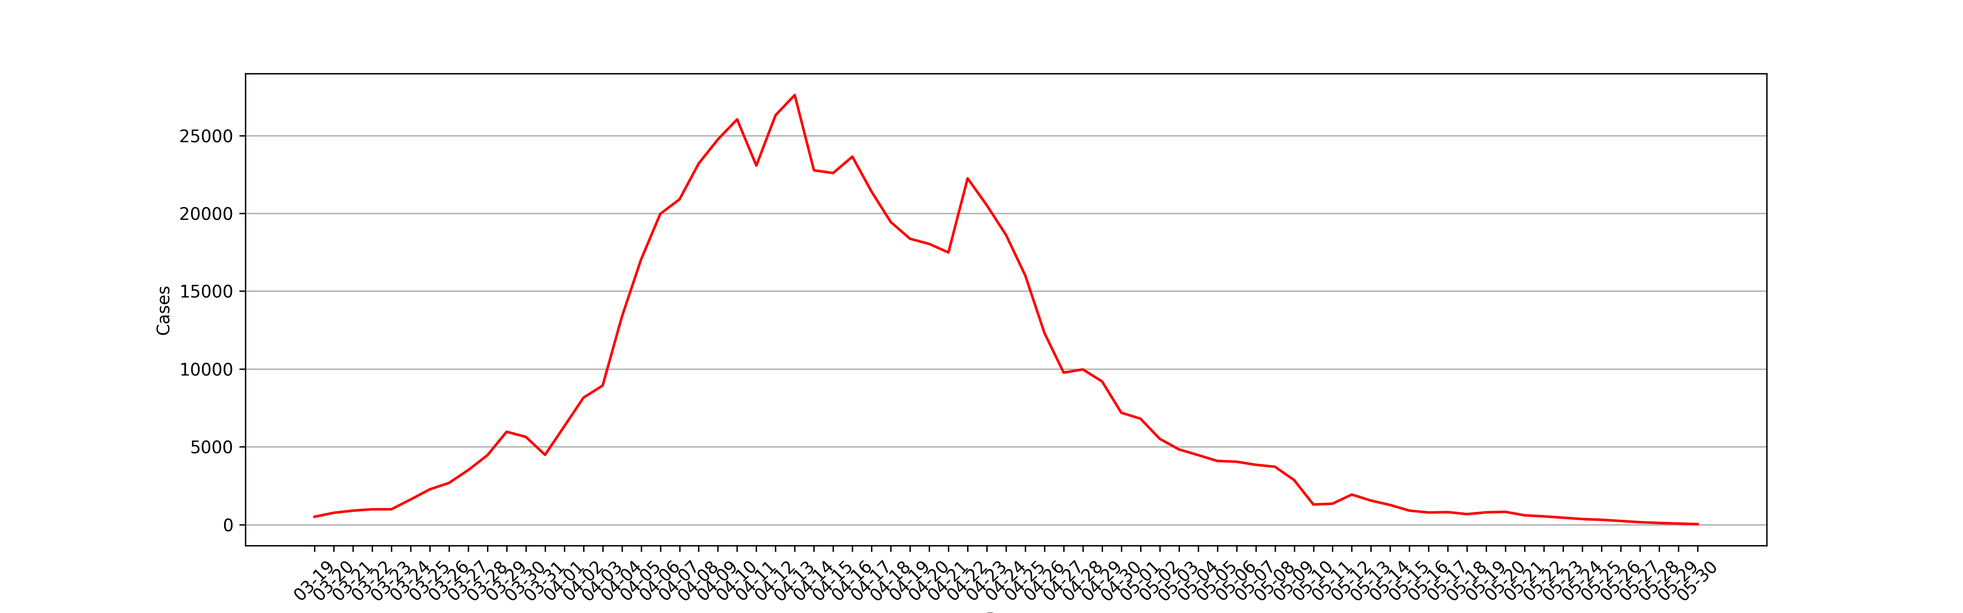
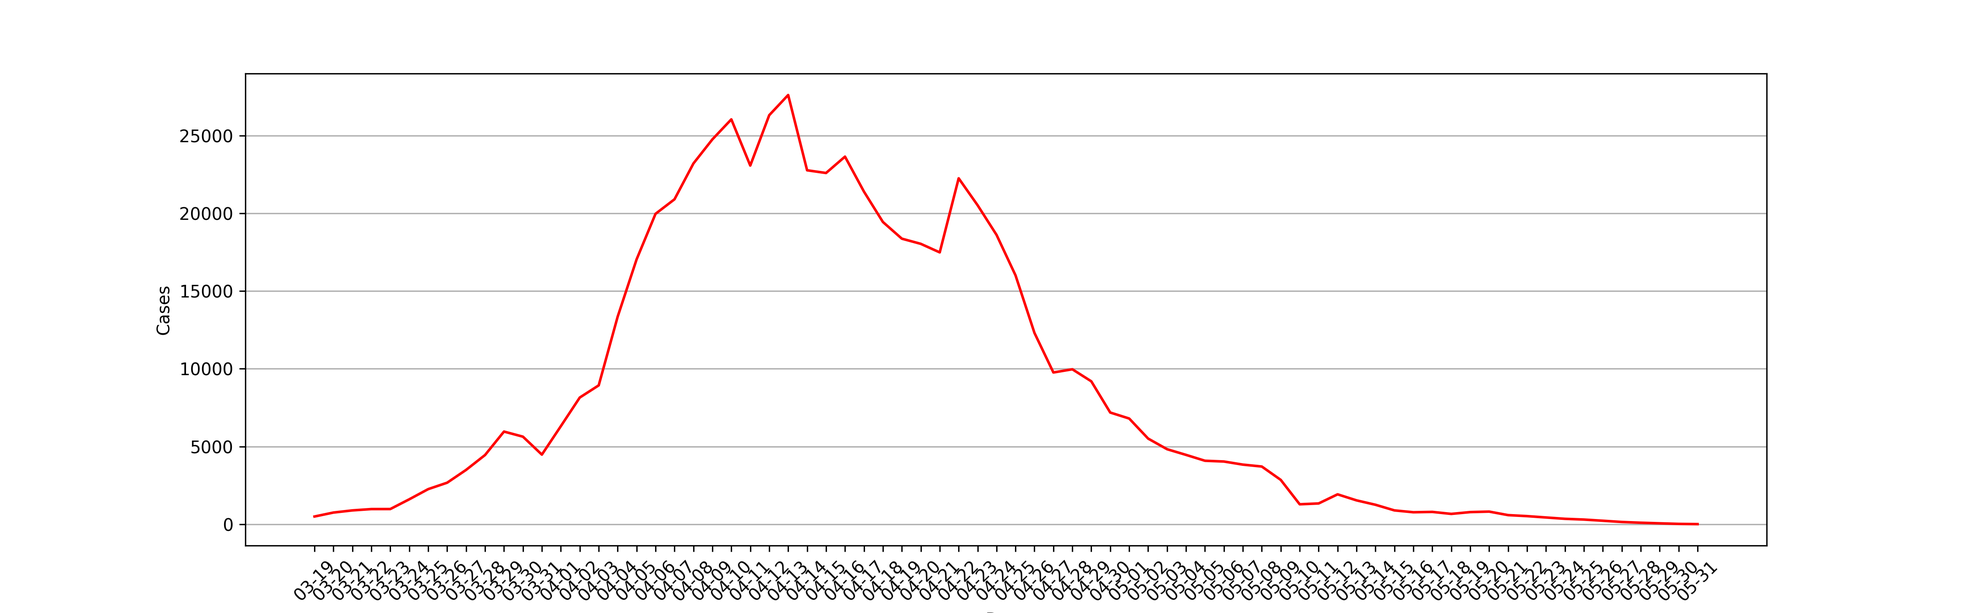
Commit by github action

diff --git a/archived_html/f19f27502d6bc9c7f870bcb3899bd7a8.html b/archived_html/f19f27502d6bc9c7f870bcb3899bd7a8.html
@@ -1,0 +1,151 @@
+<!DOCTYPE html>
+<html lang="zh-Hans">
+<head>
+    <meta charset="utf-8">
+    <meta http-equiv="Content-Security-Policy" content="upgrade-insecure-requests">
+    <meta name="viewport" content="width=device-width, initial-scale=1, maximum-scale=1, user-scalable=no">
+    <meta http-equiv="X-UA-Compatible" content="IE=Edge,chrome=1">
+    <meta http-equiv="Cache-Control" content="no-siteapp" />
+    <meta name="renderer" content="webkit">
+    <meta name="apple-mobile-web-app-capable" content="yes" />
+    <meta name="apple-mobile-web-app-status-bar-style" content="black" />
+    <title>上海2022年5月31日，新增本土新冠肺炎确诊病例5例 新增本土无症状感染者10例 新增境外输入性新冠肺炎确诊病例1例 新增境外输入性无症状感染者4例__上海市卫生健康委员会</title>
+    <meta name="ColumnDescription" content="新闻发布"><!-- * -->
+    <meta name="ColumnKeywords" content="新闻发布"><!-- * -->
+    <!--<meta name="ColumnType" content=""> * -->
+    <meta name="ColumnName" content="新闻发布"><!-- * -->
+    <meta name="ArticleTitle" content="上海2022年5月31日，新增本土新冠肺炎确诊病例5例 新增本土无症状感染者10例 新增境外输入性新冠肺炎确诊病例1例 新增境外输入性无症状感染者4例"><!-- * -->
+    <meta name="PubDate" content="2022-06-01"><!-- * -->
+    <meta name="ContentSource" content="上海市卫生健康委员会"><!-- * -->
+    <meta name="Author" content="上海市卫生健康委员会">
+    <meta name="Description" content="" />
+    <meta name="applicable-device" content="pc;mobile">
+    <meta name="location" content="北纬N31°11′51.89″ 东经E121°30′5.42″">
+    <!-- min CSS -->
+    <link rel="stylesheet" href="/assets/css/ETUI/ETUI3.min.css">
+    <!-- Custom CSS -->
+    <link rel="stylesheet" href="/assets/plugin/owl/owl.carousel.css">
+    <link rel="stylesheet" href="/assets/css/style.css">
+    <link rel="stylesheet" href="/assets/css/responsive.css">
+    <link rel="stylesheet" href="/assets/css/ETUI/ETUI3.Utility.css">
+    <!-- icons -->
+    <link rel="shortcut icon" href="/assets/img/ico/favicon.png">
+    <!-- 无障碍工具条 -->
+   <!-- <link rel="stylesheet" href="http://www.shanghai.gov.cn/jhelper_V2.0/jhelper_tool_style.css">
+    <script src="http://www.shanghai.gov.cn/jhelper_V2.0/wsj/jhelper_config.js" charset="gb2312"></script>
+    <noscript>不能读取工具条配置</noscript>
+    <script src="http://www.shanghai.gov.cn/jhelper_V2.0/jhelper_2.0.js" charset="gb2312"></script>
+    <noscript>不能读取工具条</noscript> 
+     -->
+    <script type="text/javascript">
+        function onsubmmit(pageIndex){
+            $("#pageIndex").val(1);
+            $("#searchField").val("0");
+            $("#timeScope").val("0");
+            $("#cmsSearchId").val("0");
+            $("#searchForm").submit();
+        }
+        function onselsubmmit(){
+            $("#pageIndex").val(1);
+            $("#searchForm").submit();
+        }
+        function psubmmit(pageIndex){
+            $("#pageIndex").val(pageIndex);
+            $("#searchForm").submit();
+        }
+        // 栏目
+        function chsubmmit(searchChId){
+            $("#pageIndex").val(1);
+            $("#searchField").val("0");
+            $("#timeScope").val("0");
+            $("#cmsSearchId").val(searchChId);
+            $("#searchForm").submit();
+        }
+    </script> 
+    <!-- 无障碍工具条 -->
+</head>
+<body>
+    <div id="accessNull"></div>
+    <div id="container">
+        <div class="channelinfo hidden"></div>
+        <script src="/assets/js/header.js"></script>
+        <div class="main" id="main">
+            <script src="/assets/js/jiansuo.js"></script>
+            <div class="main-container margin-top-15">
+                <div class="container ">
+                    <div class="relitive">
+                        <ol class="breadcrumb">
+                           <span>您现在所在的位置：</span>
+                            <li><a href="/index.html">首页</a></li>
+                            <li class="active">新闻中心</li>
+                           
+                            <li class="active">新闻发布</li>
+                           
+                        </ol>
+                        <div class="date-se">
+                            <i class="iconfont">&#xe60b;</i> <span id="time"></span>
+                        </div>
+                    </div>
+
+                    <div class="Article">
+                        <h2 id="ivs_title" class="Article-title">上海2022年5月31日，新增本土新冠肺炎确诊病例5例 新增本土无症状感染者10例 新增境外输入性新冠肺炎确诊病例1例 新增境外输入性无症状感染者4例</br>
+                         <h2 class="Article-title">
+                            <small id="ivs_date" class="Article-time">( 2022-06-01)</small>
+                        </h2>
+                        <div id="ivs_player" style="text-align:center;"></div>
+                        <div id="ivs_content" class="Article_content">
+                           
+                                 <p style="font-size: medium;white-space: normal;margin-top: 10px;text-indent: 40px"><span style="font-size: 20px;font-family: 仿宋_GB2312">市卫健委今早（6月1日）通报：2022年5月31日0—24时，新增本土新冠肺炎确诊病例5例和无症状感染者10例，其中1例确诊病例为既往无症状感染者转归，4例确诊病例和10例无症状感染者在隔离管控中发现。新增境外输入性新冠肺炎确诊病例1例和无症状感染者4例，均在闭环管控中发现。</span></p><p style="font-size: medium;white-space: normal;margin-top: 10px;text-indent: 40px"><span style="font-size: 20px;font-family: 仿宋_GB2312">2022</span><span style="font-size: 20px;font-family: 仿宋_GB2312">年5月31日0—24时，新增本土新冠肺炎确诊病例5例，含1例由既往无症状感染者转为确诊病例。新增治愈出院101例。</span></p><p style="font-size: medium;white-space: normal;margin-top: 10px;text-indent: 40px"><strong><span style="font-size: 20px;font-family: 黑体">病例1、病例2</span></strong><span style="font-size: 20px;font-family: 仿宋_GB2312">，居住于浦东新区，</span><strong><span style="font-size: 20px;font-family: 黑体">病例3</span></strong><span style="font-size: 20px;font-family: 仿宋_GB2312">，居住于黄浦区，</span><strong><span style="font-size: 20px;font-family: 黑体">病例4</span></strong><span style="font-size: 20px;font-family: 仿宋_GB2312">，居住于虹口区，均为本市闭环隔离管控人员，其间新冠病毒核酸检测结果异常，经疾控中心复核结果为阳性。经市级专家会诊，综合流行病学史、临床症状、实验室检测和影像学检查结果等，诊断为确诊病例。</span></p><p style="font-size: medium;white-space: normal;margin-top: 10px;text-indent: 40px"><strong><span style="font-size: 20px;font-family: 黑体">病例5</span></strong><span style="font-size: 20px;font-family: 仿宋_GB2312">，居住于杨浦区，为此前报告的本土无症状感染者。经市级专家会诊，综合流行病学史、临床症状、实验室检测和影像学检查结果等，诊断为确诊病例。</span></p><p style="font-size: medium;white-space: normal;margin-top: 10px;text-indent: 40px"><span style="font-size: 20px;font-family: 仿宋_GB2312">2022</span><span style="font-size: 20px;font-family: 仿宋_GB2312">年5月31日0—24时，新增本土无症状感染者10例。</span></p><p style="font-size: medium;white-space: normal;margin-top: 10px;text-indent: 40px"><strong><span style="font-size: 20px;font-family: 黑体">无症状感染者1、无症状感染者2</span></strong><span style="font-size: 20px;font-family: 仿宋_GB2312">，居住于浦东新区，</span><strong><span style="font-size: 20px;font-family: 黑体">无症状感染者3、无症状感染者4</span></strong><span style="font-size: 20px;font-family: 仿宋_GB2312">，居住于长宁区，</span><strong><span style="font-size: 20px;font-family: 黑体">无症状感染者5、无症状感染者6</span></strong><span style="font-size: 20px;font-family: 仿宋_GB2312">，居住于静安区，</span><strong><span style="font-size: 20px;font-family: 黑体">无症状感染者7、无症状感染者8</span></strong><span style="font-size: 20px;font-family: 仿宋_GB2312">，居住于虹口区，</span><strong><span style="font-size: 20px;font-family: 黑体">无症状感染者9、无症状感染者10</span></strong><span style="font-size: 20px;font-family: 仿宋_GB2312">，居住于杨浦区，均为本市闭环隔离管控人员，其间新冠病毒核酸检测结果异常，经疾控中心复核结果为阳性，诊断为无症状感染者。</span></p><p style="font-size: medium;white-space: normal;text-indent: 40px"><span style="font-size: 20px;font-family: 仿宋_GB2312">2022</span><span style="font-size: 20px;font-family: 仿宋_GB2312">年5月31日0—24时，</span><span style="font-size: 20px;font-family: 仿宋_GB2312">通过口岸联防联控机制，报告1例境外输入性新冠肺炎确诊病例。</span></p><p style="font-size: medium;white-space: normal;text-indent: 40px"><strong><span style="font-size: 20px;font-family: 黑体">该病例</span></strong><span style="font-size: 20px;font-family: 仿宋_GB2312">为中国籍，在英国留学，自英国出发，经加拿大转机，于2022年5月30日抵达上海浦东国际机场，入关后即被集中隔离观察，其间出现症状。综合流行病学史、临床症状、实验室检测和影像学检查结果等，诊断为确诊病例。</span></p><p style="font-size: medium;white-space: normal;text-indent: 40px"><span style="font-size: 20px;font-family: 仿宋_GB2312">该境外输入性确诊病例已转至定点医疗机构救治，已追踪同航班密切接触者25人，均已落实集中隔离观察。</span></p><p style="font-size: medium;white-space: normal;text-indent: 40px"><span style="font-size: 20px;font-family: 仿宋_GB2312">2022</span><span style="font-size: 20px;font-family: 仿宋_GB2312">年5月31日0—24时，新增境外输入性无症状感染者4例。</span></p><p style="font-size: medium;white-space: normal;text-indent: 40px"><strong><span style="font-size: 20px;font-family: 黑体">无症状感染者1</span></strong><span style="font-size: 20px;font-family: 仿宋_GB2312">为中国籍，在刚果（金）工作，自刚果（金）出发，经埃塞俄比亚转机，于2022年5月24日抵达上海浦东国际机场，入关后即被集中隔离观察，其间例行核酸检测异常。经排查，区疾控中心新冠病毒核酸检测结果为阳性。综合流行病学史、临床症状、实验室检测和影像学检查结果等，诊断为无症状感染者。</span></p><p style="font-size: medium;white-space: normal;text-indent: 40px"><strong><span style="font-size: 20px;font-family: 黑体">无症状感染者2</span></strong><span style="font-size: 20px;font-family: 仿宋_GB2312">为中国籍，在美国留学，自美国出发，于2022年5月29日抵达上海浦东国际机场，入关后即被集中隔离观察，其间例行核酸检测异常。经排查，区疾控中心新冠病毒核酸检测结果为阳性。综合流行病学史、临床症状、实验室检测和影像学检查结果等，诊断为无症状感染者。</span></p><p style="font-size: medium;white-space: normal;text-indent: 40px"><strong><span style="font-size: 20px;font-family: 黑体">无症状感染者3、无症状感染者4</span></strong><span style="font-size: 20px;font-family: 仿宋_GB2312">均为中国籍，在美国留学，自美国出发，乘坐同一航班，于2022年5月29日抵达上海浦东国际机场，入关后即被集中隔离观察，其间例行核酸检测异常。经排查，区疾控中心新冠病毒核酸检测结果为阳性。综合流行病学史、临床症状、实验室检测和影像学检查结果等，诊断为无症状感染者。</span></p><p style="font-size: medium;white-space: normal;text-indent: 40px"><span style="font-size: 20px;font-family: 仿宋_GB2312">4</span><span style="font-size: 20px;font-family: 仿宋_GB2312">例境外输入性无症状感染者已转至定点医疗机构医学观察，已追踪同航班密切接触者58人，均已落实集中隔离观察。</span></p><p style="font-size: medium;white-space: normal;text-indent: 40px"><span style="font-size: 20px;font-family: 仿宋_GB2312">2022</span><span style="font-size: 20px;font-family: 仿宋_GB2312">年5月31日0—24时，解除医学观察无症状感染者1160例，其中本土无症状感染者1159例，境外输入性无症状感染者1例。</span></p><p style="font-size: medium;white-space: normal;margin-top: 10px;text-indent: 40px;vertical-align: baseline"><span style="font-size: 20px;font-family: 仿宋_GB2312">2022</span><span style="font-size: 20px;font-family: 仿宋_GB2312">年2月26日0时至2022年5月31日24时，累计本土确诊58000例，治愈出院56199例，在院治疗1213例（其中重型82例，危重型28例），死亡588。现有待排查的疑似病例0例。</span></p><p style="font-size: medium;white-space: normal;margin-top: 10px;text-indent: 40px;vertical-align: baseline"><span style="font-size: 20px;font-family: 仿宋_GB2312">截至2022年5月31日24时，累计境外输入性确诊病例4615例，出院4603例，在院治疗12例。现有待排查的疑似病例0例。</span></p><p style="font-size: medium;white-space: normal;margin-top: 10px;text-indent: 40px;vertical-align: baseline"><span style="font-size: 20px;font-family: 仿宋_GB2312"><br/></span></p><table align="center" cellspacing="0" cellpadding="0" width="544"><tbody><tr style="height: 24px" class="firstRow"><td width="379" colspan="2" style="border-width: 1px; border-color: windowtext; padding: 0px 7px; border-style: solid;" height="24"><p style="text-align: center;vertical-align: baseline"><strong><span style="font-size: 19px;font-family: 仿宋_GB2312">区域</span></strong></p></td><td width="165" style="border-width: 1px; border-top-color: windowtext; border-right-color: windowtext; border-bottom-color: windowtext; border-style: solid; border-left-color: initial; padding: 0px 7px;" height="24"><p style="text-align: center;vertical-align: baseline"><strong><span style="font-size: 19px;font-family: 仿宋_GB2312">在院治疗确诊病例</span></strong></p></td></tr><tr style="height: 42px"><td width="213" rowspan="9" style="border-width: 1px; border-right-color: windowtext; border-bottom-color: windowtext; border-left-color: windowtext; border-style: solid; border-top-color: initial; padding: 0px 7px;" height="42"><p style="text-align: center;vertical-align: baseline"><span style="font-size: 19px;font-family: 仿宋_GB2312">境外输入人员</span></p><p style="text-align: center;vertical-align: baseline"><span style="font-size: 19px;font-family: 仿宋_GB2312">（按输入地分）</span></p></td><td width="165" valign="top" style="border-width: 1px; border-style: solid; border-top-color: initial; border-left-color: initial; border-bottom-color: windowtext; border-right-color: windowtext; padding: 0px 7px;" height="42"><p style="text-align: center;vertical-align: middle"><span style="font-size: 19px;font-family: 仿宋_GB2312">美国</span></p></td><td width="165" valign="top" style="border-width: 1px; border-style: solid; border-top-color: initial; border-left-color: initial; border-bottom-color: windowtext; border-right-color: windowtext; padding: 0px 7px;" height="42"><p style="text-align: center;vertical-align: middle"><span style="font-size: 19px;font-family: 仿宋_GB2312">3</span></p></td></tr><tr style="height: 42px"><td width="165" valign="top" style="border-width: 1px; border-style: solid; border-top-color: initial; border-left-color: initial; border-bottom-color: windowtext; border-right-color: windowtext; padding: 0px 7px;" height="42"><p style="text-align: center;vertical-align: middle"><span style="font-size: 19px;font-family: 仿宋_GB2312">英国</span></p></td><td width="165" valign="top" style="border-width: 1px; border-style: solid; border-top-color: initial; border-left-color: initial; border-bottom-color: windowtext; border-right-color: windowtext; padding: 0px 7px;" height="42"><p style="text-align: center;vertical-align: middle"><span style="font-size: 19px;font-family: 仿宋_GB2312">2</span></p></td></tr><tr style="height: 42px"><td width="165" valign="top" style="border-width: 1px; border-style: solid; border-top-color: initial; border-left-color: initial; border-bottom-color: windowtext; border-right-color: windowtext; padding: 0px 7px;" height="42"><p style="text-align: center;vertical-align: middle"><span style="font-size: 19px;font-family: 仿宋_GB2312">墨西哥</span></p></td><td width="165" valign="top" style="border-width: 1px; border-style: solid; border-top-color: initial; border-left-color: initial; border-bottom-color: windowtext; border-right-color: windowtext; padding: 0px 7px;" height="42"><p style="text-align: center;vertical-align: middle"><span style="font-size: 19px;font-family: 仿宋_GB2312">1</span></p></td></tr><tr style="height: 42px"><td width="165" valign="top" style="border-width: 1px; border-style: solid; border-top-color: initial; border-left-color: initial; border-bottom-color: windowtext; border-right-color: windowtext; padding: 0px 7px;" height="42"><p style="text-align: center;vertical-align: middle"><span style="font-size: 19px;font-family: 仿宋_GB2312">纳米比亚</span></p></td><td width="165" valign="top" style="border-width: 1px; border-style: solid; border-top-color: initial; border-left-color: initial; border-bottom-color: windowtext; border-right-color: windowtext; padding: 0px 7px;" height="42"><p style="text-align: center;vertical-align: middle"><span style="font-size: 19px;font-family: 仿宋_GB2312">1</span></p></td></tr><tr style="height: 42px"><td width="165" valign="top" style="border-width: 1px; border-style: solid; border-top-color: initial; border-left-color: initial; border-bottom-color: windowtext; border-right-color: windowtext; padding: 0px 7px;" height="42"><p style="text-align: center;vertical-align: middle"><span style="font-size: 19px;font-family: 仿宋_GB2312">加拿大</span></p></td><td width="165" valign="top" style="border-width: 1px; border-style: solid; border-top-color: initial; border-left-color: initial; border-bottom-color: windowtext; border-right-color: windowtext; padding: 0px 7px;" height="42"><p style="text-align: center;vertical-align: middle"><span style="font-size: 19px;font-family: 仿宋_GB2312">1</span></p></td></tr><tr style="height: 42px"><td width="165" valign="top" style="border-width: 1px; border-style: solid; border-top-color: initial; border-left-color: initial; border-bottom-color: windowtext; border-right-color: windowtext; padding: 0px 7px;" height="42"><p style="text-align: center;vertical-align: middle"><span style="font-size: 19px;font-family: 仿宋_GB2312">新加坡</span></p></td><td width="165" valign="top" style="border-width: 1px; border-style: solid; border-top-color: initial; border-left-color: initial; border-bottom-color: windowtext; border-right-color: windowtext; padding: 0px 7px;" height="42"><p style="text-align: center;vertical-align: middle"><span style="font-size: 19px;font-family: 仿宋_GB2312">1</span></p></td></tr><tr style="height: 42px"><td width="165" valign="top" style="border-width: 1px; border-style: solid; border-top-color: initial; border-left-color: initial; border-bottom-color: windowtext; border-right-color: windowtext; padding: 0px 7px;" height="42"><p style="text-align: center;vertical-align: middle"><span style="font-size: 19px;font-family: 仿宋_GB2312">刚果（金）</span></p></td><td width="165" valign="top" style="border-width: 1px; border-style: solid; border-top-color: initial; border-left-color: initial; border-bottom-color: windowtext; border-right-color: windowtext; padding: 0px 7px;" height="42"><p style="text-align: center;vertical-align: middle"><span style="font-size: 19px;font-family: 仿宋_GB2312">1</span></p></td></tr><tr style="height: 42px"><td width="165" valign="top" style="border-width: 1px; border-style: solid; border-top-color: initial; border-left-color: initial; border-bottom-color: windowtext; border-right-color: windowtext; padding: 0px 7px;" height="42"><p style="text-align: center;vertical-align: middle"><span style="font-size: 19px;font-family: 仿宋_GB2312">蒙古</span></p></td><td width="165" valign="top" style="border-width: 1px; border-style: solid; border-top-color: initial; border-left-color: initial; border-bottom-color: windowtext; border-right-color: windowtext; padding: 0px 7px;" height="42"><p style="text-align: center;vertical-align: middle"><span style="font-size: 19px;font-family: 仿宋_GB2312">1</span></p></td></tr><tr style="height: 42px"><td width="165" valign="top" style="border-width: 1px; border-style: solid; border-top-color: initial; border-left-color: initial; border-bottom-color: windowtext; border-right-color: windowtext; padding: 0px 7px;" height="42"><p style="text-align: center;vertical-align: middle"><span style="font-size: 19px;font-family: 仿宋_GB2312">台湾地区</span></p></td><td width="165" valign="top" style="border-width: 1px; border-style: solid; border-top-color: initial; border-left-color: initial; border-bottom-color: windowtext; border-right-color: windowtext; padding: 0px 7px;" height="42"><p style="text-align: center;vertical-align: middle"><span style="font-size: 19px;font-family: 仿宋_GB2312">1</span></p></td></tr><tr style="height: 33px"><td width="213" rowspan="16" style="border-width: 1px; border-right-color: windowtext; border-bottom-color: windowtext; border-left-color: windowtext; border-style: solid; border-top-color: initial; padding: 0px 7px;" height="33"><p style="text-indent: 19px;vertical-align: baseline"><span style="font-size: 19px;font-family: 仿宋_GB2312">本市居住或工作地</span></p></td><td width="165" style="border-width: 1px; border-style: solid; border-top-color: initial; border-left-color: initial; border-bottom-color: windowtext; border-right-color: windowtext; padding: 0px 7px;" height="33"><p style="text-align: center;vertical-align: middle"><span style="font-size: 19px;font-family: 仿宋_GB2312">浦东</span></p></td><td width="165" style="border-width: 1px; border-style: solid; border-top-color: initial; border-left-color: initial; border-bottom-color: windowtext; border-right-color: windowtext; padding: 0px 7px;" height="33"><p style="text-align: center"><span style="font-size: 19px;font-family: 仿宋_GB2312">74</span></p></td></tr><tr style="height: 33px"><td width="165" style="border-width: 1px; border-style: solid; border-top-color: initial; border-left-color: initial; border-bottom-color: windowtext; border-right-color: windowtext; padding: 0px 7px;" height="33"><p style="text-align: center;vertical-align: middle"><span style="font-size: 19px;font-family: 仿宋_GB2312">黄浦</span></p></td><td width="165" style="border-width: 1px; border-style: solid; border-top-color: initial; border-left-color: initial; border-bottom-color: windowtext; border-right-color: windowtext; padding: 0px 7px;" height="33"><p style="text-align: center"><span style="font-size: 19px;font-family: 仿宋_GB2312">147</span></p></td></tr><tr style="height: 33px"><td width="165" style="border-width: 1px; border-style: solid; border-top-color: initial; border-left-color: initial; border-bottom-color: windowtext; border-right-color: windowtext; padding: 0px 7px;" height="33"><p style="text-align: center;vertical-align: middle"><span style="font-size: 19px;font-family: 仿宋_GB2312">徐汇</span></p></td><td width="165" style="border-width: 1px; border-style: solid; border-top-color: initial; border-left-color: initial; border-bottom-color: windowtext; border-right-color: windowtext; padding: 0px 7px;" height="33"><p style="text-align: center"><span style="font-size: 19px;font-family: 仿宋_GB2312">160</span></p></td></tr><tr style="height: 33px"><td width="165" style="border-width: 1px; border-style: solid; border-top-color: initial; border-left-color: initial; border-bottom-color: windowtext; border-right-color: windowtext; padding: 0px 7px;" height="33"><p style="text-align: center;vertical-align: middle"><span style="font-size: 19px;font-family: 仿宋_GB2312">长宁</span></p></td><td width="165" style="border-width: 1px; border-style: solid; border-top-color: initial; border-left-color: initial; border-bottom-color: windowtext; border-right-color: windowtext; padding: 0px 7px;" height="33"><p style="text-align: center"><span style="font-size: 19px;font-family: 仿宋_GB2312">77</span></p></td></tr><tr style="height: 33px"><td width="165" style="border-width: 1px; border-style: solid; border-top-color: initial; border-left-color: initial; border-bottom-color: windowtext; border-right-color: windowtext; padding: 0px 7px;" height="33"><p style="text-align: center;vertical-align: middle"><span style="font-size: 19px;font-family: 仿宋_GB2312">静安</span></p></td><td width="165" style="border-width: 1px; border-style: solid; border-top-color: initial; border-left-color: initial; border-bottom-color: windowtext; border-right-color: windowtext; padding: 0px 7px;" height="33"><p style="text-align: center"><span style="font-size: 19px;font-family: 仿宋_GB2312">182</span></p></td></tr><tr style="height: 33px"><td width="165" style="border-width: 1px; border-style: solid; border-top-color: initial; border-left-color: initial; border-bottom-color: windowtext; border-right-color: windowtext; padding: 0px 7px;" height="33"><p style="text-align: center;vertical-align: middle"><span style="font-size: 19px;font-family: 仿宋_GB2312">普陀</span></p></td><td width="165" style="border-width: 1px; border-style: solid; border-top-color: initial; border-left-color: initial; border-bottom-color: windowtext; border-right-color: windowtext; padding: 0px 7px;" height="33"><p style="text-align: center"><span style="font-size: 19px;font-family: 仿宋_GB2312">68</span></p></td></tr><tr style="height: 33px"><td width="165" style="border-width: 1px; border-style: solid; border-top-color: initial; border-left-color: initial; border-bottom-color: windowtext; border-right-color: windowtext; padding: 0px 7px;" height="33"><p style="text-align: center;vertical-align: middle"><span style="font-size: 19px;font-family: 仿宋_GB2312">虹口</span></p></td><td width="165" style="border-width: 1px; border-style: solid; border-top-color: initial; border-left-color: initial; border-bottom-color: windowtext; border-right-color: windowtext; padding: 0px 7px;" height="33"><p style="text-align: center"><span style="font-size: 19px;font-family: 仿宋_GB2312">189</span></p></td></tr><tr style="height: 33px"><td width="165" style="border-width: 1px; border-style: solid; border-top-color: initial; border-left-color: initial; border-bottom-color: windowtext; border-right-color: windowtext; padding: 0px 7px;" height="33"><p style="text-align: center;vertical-align: middle"><span style="font-size: 19px;font-family: 仿宋_GB2312">杨浦</span></p></td><td width="165" style="border-width: 1px; border-style: solid; border-top-color: initial; border-left-color: initial; border-bottom-color: windowtext; border-right-color: windowtext; padding: 0px 7px;" height="33"><p style="text-align: center"><span style="font-size: 19px;font-family: 仿宋_GB2312">267</span></p></td></tr><tr style="height: 33px"><td width="165" style="border-width: 1px; border-style: solid; border-top-color: initial; border-left-color: initial; border-bottom-color: windowtext; border-right-color: windowtext; padding: 0px 7px;" height="33"><p style="text-align: center;vertical-align: middle"><span style="font-size: 19px;font-family: 仿宋_GB2312">闵行</span></p></td><td width="165" style="border-width: 1px; border-style: solid; border-top-color: initial; border-left-color: initial; border-bottom-color: windowtext; border-right-color: windowtext; padding: 0px 7px;" height="33"><p style="text-align: center"><span style="font-size: 19px;font-family: 仿宋_GB2312">14</span></p></td></tr><tr style="height: 33px"><td width="165" style="border-width: 1px; border-style: solid; border-top-color: initial; border-left-color: initial; border-bottom-color: windowtext; border-right-color: windowtext; padding: 0px 7px;" height="33"><p style="text-align: center;vertical-align: middle"><span style="font-size: 19px;font-family: 仿宋_GB2312">宝山</span></p></td><td width="165" style="border-width: 1px; border-style: solid; border-top-color: initial; border-left-color: initial; border-bottom-color: windowtext; border-right-color: windowtext; padding: 0px 7px;" height="33"><p style="text-align: center"><span style="font-size: 19px;font-family: 仿宋_GB2312">20</span></p></td></tr><tr style="height: 33px"><td width="165" style="border-width: 1px; border-style: solid; border-top-color: initial; border-left-color: initial; border-bottom-color: windowtext; border-right-color: windowtext; padding: 0px 7px;" height="33"><p style="text-align: center;vertical-align: middle"><span style="font-size: 19px;font-family: 仿宋_GB2312">嘉定</span></p></td><td width="165" style="border-width: 1px; border-style: solid; border-top-color: initial; border-left-color: initial; border-bottom-color: windowtext; border-right-color: windowtext; padding: 0px 7px;" height="33"><p style="text-align: center"><span style="font-size: 19px;font-family: 仿宋_GB2312">3</span></p></td></tr><tr style="height: 33px"><td width="165" style="border-width: 1px; border-style: solid; border-top-color: initial; border-left-color: initial; border-bottom-color: windowtext; border-right-color: windowtext; padding: 0px 7px;" height="33"><p style="text-align: center;vertical-align: middle"><span style="font-size: 19px;font-family: 仿宋_GB2312">金山</span></p></td><td width="165" style="border-width: 1px; border-style: solid; border-top-color: initial; border-left-color: initial; border-bottom-color: windowtext; border-right-color: windowtext; padding: 0px 7px;" height="33"><p style="text-align: center"><span style="font-size: 19px;font-family: 仿宋_GB2312">1</span></p></td></tr><tr style="height: 33px"><td width="165" style="border-width: 1px; border-style: solid; border-top-color: initial; border-left-color: initial; border-bottom-color: windowtext; border-right-color: windowtext; padding: 0px 7px;" height="33"><p style="text-align: center;vertical-align: middle"><span style="font-size: 19px;font-family: 仿宋_GB2312">松江</span></p></td><td width="165" style="border-width: 1px; border-style: solid; border-top-color: initial; border-left-color: initial; border-bottom-color: windowtext; border-right-color: windowtext; padding: 0px 7px;" height="33"><p style="text-align: center"><span style="font-size: 19px;font-family: 仿宋_GB2312">7</span></p></td></tr><tr style="height: 33px"><td width="165" style="border-width: 1px; border-style: solid; border-top-color: initial; border-left-color: initial; border-bottom-color: windowtext; border-right-color: windowtext; padding: 0px 7px;" height="33"><p style="text-align: center;vertical-align: middle"><span style="font-size: 19px;font-family: 仿宋_GB2312">青浦</span></p></td><td width="165" style="border-width: 1px; border-style: solid; border-top-color: initial; border-left-color: initial; border-bottom-color: windowtext; border-right-color: windowtext; padding: 0px 7px;" height="33"><p style="text-align: center"><span style="font-size: 19px;font-family: 仿宋_GB2312">1</span></p></td></tr><tr style="height: 33px"><td width="165" style="border-width: 1px; border-style: solid; border-top-color: initial; border-left-color: initial; border-bottom-color: windowtext; border-right-color: windowtext; padding: 0px 7px;" height="33"><p style="text-align: center;vertical-align: middle"><span style="font-size: 19px;font-family: 仿宋_GB2312">奉贤</span></p></td><td width="165" style="border-width: 1px; border-style: solid; border-top-color: initial; border-left-color: initial; border-bottom-color: windowtext; border-right-color: windowtext; padding: 0px 7px;" height="33"><p style="text-align: center"><span style="font-size: 19px;font-family: 仿宋_GB2312">2</span></p></td></tr><tr style="height: 33px"><td width="165" style="border-width: 1px; border-style: solid; border-top-color: initial; border-left-color: initial; border-bottom-color: windowtext; border-right-color: windowtext; padding: 0px 7px;" height="33"><p style="text-align: center;vertical-align: middle"><span style="font-size: 19px;font-family: 仿宋_GB2312">崇明</span></p></td><td width="165" style="border-width: 1px; border-style: solid; border-top-color: initial; border-left-color: initial; border-bottom-color: windowtext; border-right-color: windowtext; padding: 0px 7px;" height="33"><p style="text-align: center"><span style="font-size: 19px;font-family: 仿宋_GB2312">1</span></p></td></tr><tr style="height: 33px"><td width="379" colspan="2" style="border-width: 1px; border-right-color: windowtext; border-bottom-color: windowtext; border-left-color: windowtext; border-style: solid; border-top-color: initial; padding: 0px 7px;" height="33"><p style="text-align: center;vertical-align: baseline"><span style="font-size: 19px;font-family: 仿宋_GB2312">合计</span></p></td><td width="165" style="border-width: 1px; border-style: solid; border-top-color: initial; border-left-color: initial; border-bottom-color: windowtext; border-right-color: windowtext; padding: 0px 7px;" height="33"><p style="text-align: center;vertical-align: baseline"><span style="font-size: 19px;font-family: 仿宋_GB2312">1225</span></p></td></tr></tbody></table><p style="font-size: medium;white-space: normal;margin-top: 10px;text-indent: 43px;vertical-align: baseline"><span style="font-size: 21px;font-family: Calibri, sans-serif">&nbsp;</span></p><p style="font-size: medium;white-space: normal;margin-top: 10px;text-indent: 43px;vertical-align: baseline"><span style="font-size: 21px;font-family: Calibri, sans-serif">&nbsp;</span></p><p><br/></p>
+                        </div>
+                        </div>
+                    </div>
+                </div>
+            </div>
+        </div>
+        <script src="/assets/js/footer.js"></script>
+        </div>
+    <!--Main JS-->
+    <script src="/assets/js/ETUI/jquery.min.1.12.4.js"></script>
+    <!--[if lt IE 9]>
+    <script src="/assets/js/ETUI/html5shiv.min.js"></script>
+    <script src="/assets/js/ETUI/respond.min.js"></script>
+    <![endif]-->
+    <script src="/assets/js/ETUI/ETUI3.min.js"></script>
+    <script src="/assets/plugin/owl/owl.carousel.min.js"></script>
+    <!--Custom JS-->
+    <script src="/assets/js/main.js"></script>
+    <script src="/assets/js/language.js"></script>
+    <!-- <script src="/assets/js/Time.js"></script> -->
+    <!--
+  <script src="/assets/js/jhelper_config.js" charset="gb2312"></script>
+<script type="text/javascript" src="https://jhelper.shanghai.gov.cn/publicJS/3100000010.js"></script>
+-->
+<script src="https://wsjkw.sh.gov.cn/wza/jhelper_config.js" charset="gb2312"></script>
+    <script type="text/javascript" src="http://jhelper.shanghai.gov.cn/publicJS/3100000010.js"></script>
+   <!-- <script type="text/javascript" src="http://voice.ewdcloud.com.cn:9292/js/ew_msc.js"></script>-->
+    <script>
+        jQuery(document).ready(function () {
+            Main.init();
+        });
+        jQuery(document).ready(function () {
+	        getToolbarMod();
+        });
+    </script>
+    <script>
+        function currentTime(){
+            var d = new Date(),str = '';
+            str += d.getFullYear()+'年';
+            str  += d.getMonth() + 1+'月';
+            str  += d.getDate()+'日';
+            var a = new Array("日", "一", "二", "三", "四", "五", "六");
+            var week = new Date().getDay();
+            var tody = "星期"+ a[week];
+            str +=' ';
+            str  += tody ;
+            return str;
+
+        }
+        setInterval(function(){$('#time').html(currentTime)},1000);
+    </script>
+</body>
+</html>

diff --git a/README.md b/README.md
@@ -35,6 +35,7 @@ git clone --depeth=1 https://github.com/lewangdev/shanghai-lockdown-covid-19.git
 
 | Date/Details | New Cases(*)  | Deaths | Confirmed Cases | Asymptomatic Cases | A2C Cases(*) |
 | ---- | ---------- | ---------- | ---------------- | ----------------- | ---------------------------- |
+| 2022-05-31 | 14 | 0 | 5 | 10 | 1 |
 | 2022-05-30 | 29 | 0 | 9 | 22 | 2 |
 | 2022-05-29 | 65 | 0 | 6 | 61 | 2 |
 | 2022-05-28 | 104 | 0 | 29 | 93 | 18 |
@@ -118,6 +119,7 @@ git clone --depeth=1 https://github.com/lewangdev/shanghai-lockdown-covid-19.git
 
 | Date | Total Cases  | Total Deaths | Case‑Fatality-Rate |
 | ---- | ---------- | ---------- | ---------- |
+| 2022-05-31 | 624963 | 588 | 0.0941% |
 | 2022-05-30 | 624949 | 588 | 0.0941% |
 | 2022-05-29 | 624920 | 588 | 0.0941% |
 | 2022-05-28 | 624855 | 588 | 0.0941% |
